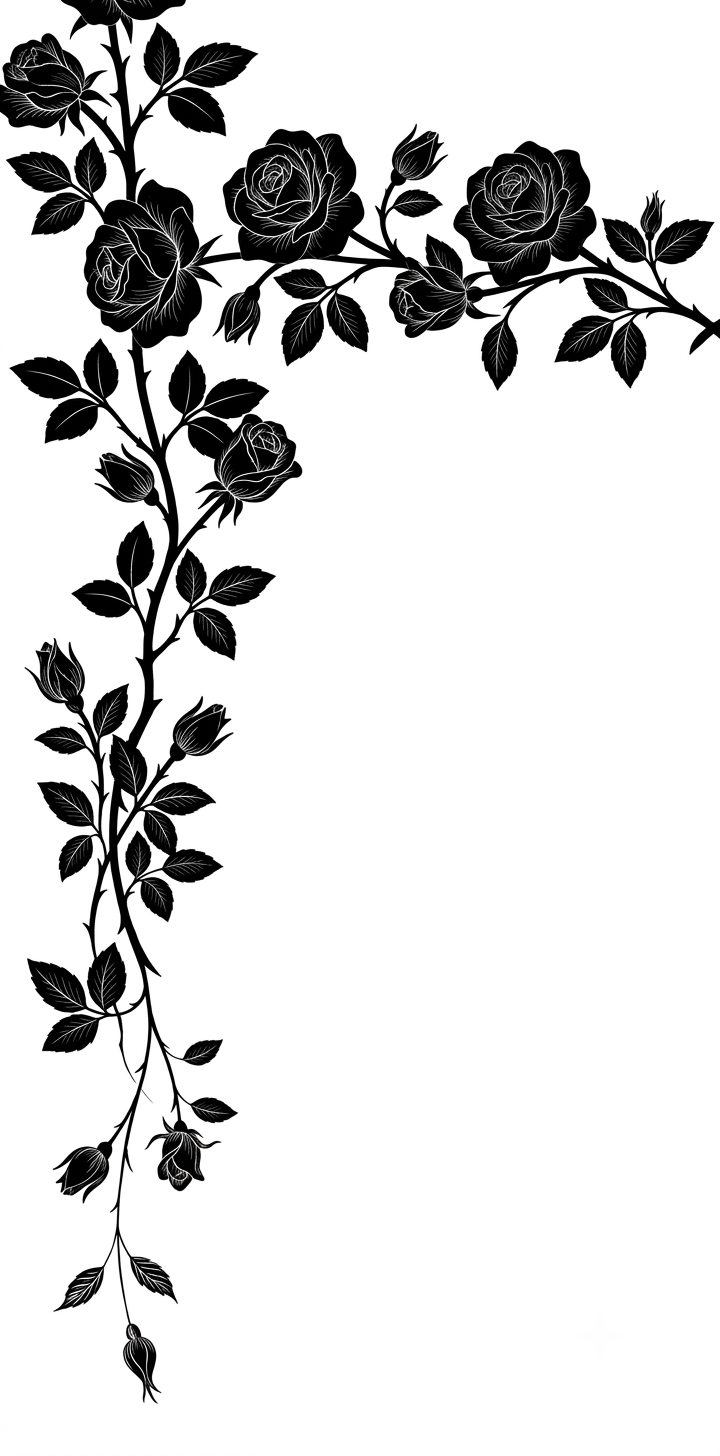
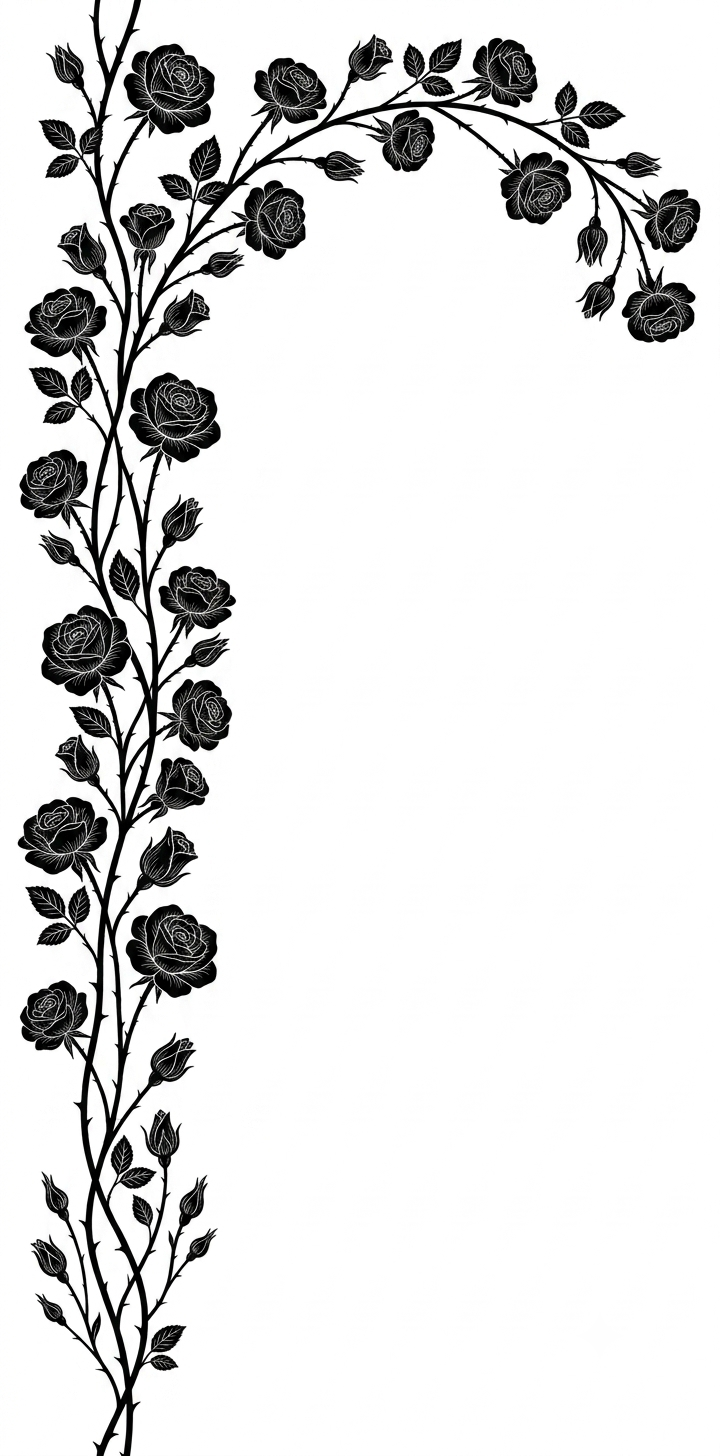
fix: dense garlands + neutral plate

Changed region(s): [[0.0, 0.0, 1.0, 1.0]]

diff --git a/app/globals.css b/app/globals.css
@@ -1033,7 +1033,7 @@ body.over-hero .nav-cta:focus-visible {
   overflow: hidden; /* crops the corner garlands at the section edges */
   padding: clamp(4rem, 9vw, 7.5rem) var(--gutter);
   padding-top: clamp(5rem, 10vh, 8rem); /* air for the corner arcs */
-  --flora-height: 102%;
+  --flora-w: 30vw;
 }
 
 .visit-inner {
@@ -1058,20 +1058,22 @@ body.over-hero .nav-cta:focus-visible {
     position: absolute;
     z-index: 0;
     top: 0;
-    height: var(--flora-height, 100%);
-    width: auto;
-    max-width: none; /* escape the global img { max-width: 100% } */
+    width: var(--flora-w, 30vw);
+    height: auto;
+    max-width: 600px;
     mix-blend-mode: multiply;
     pointer-events: none;
     user-select: none;
   }
 
+  /* -1.5vw hides the asset's thin white margin off the section edge —
+     the vines grow from off-screen */
   .visit-flora-left {
-    left: 0;
+    left: -1.5vw;
   }
 
   .visit-flora-right {
-    right: 0;
+    right: -1.5vw;
     transform: scaleX(-1);
   }
 
@@ -1089,19 +1091,15 @@ body.over-hero .nav-cta:focus-visible {
   position: relative;
   z-index: 1; /* opaque island above the garlands */
   aspect-ratio: 4 / 5;
-  background: var(--klein);
+  background: var(--paper);
   overflow: hidden;
 }
 
-/* Klein duotone — desaturated image multiplied into the wrapper's
-   klein fill via luminosity blend */
 .plate img {
   width: 100%;
   height: 100%;
   object-fit: cover;
   filter: grayscale(1) contrast(1.05);
-  mix-blend-mode: luminosity;
-  opacity: 0.92;
 }
 
 .plate-caption {
